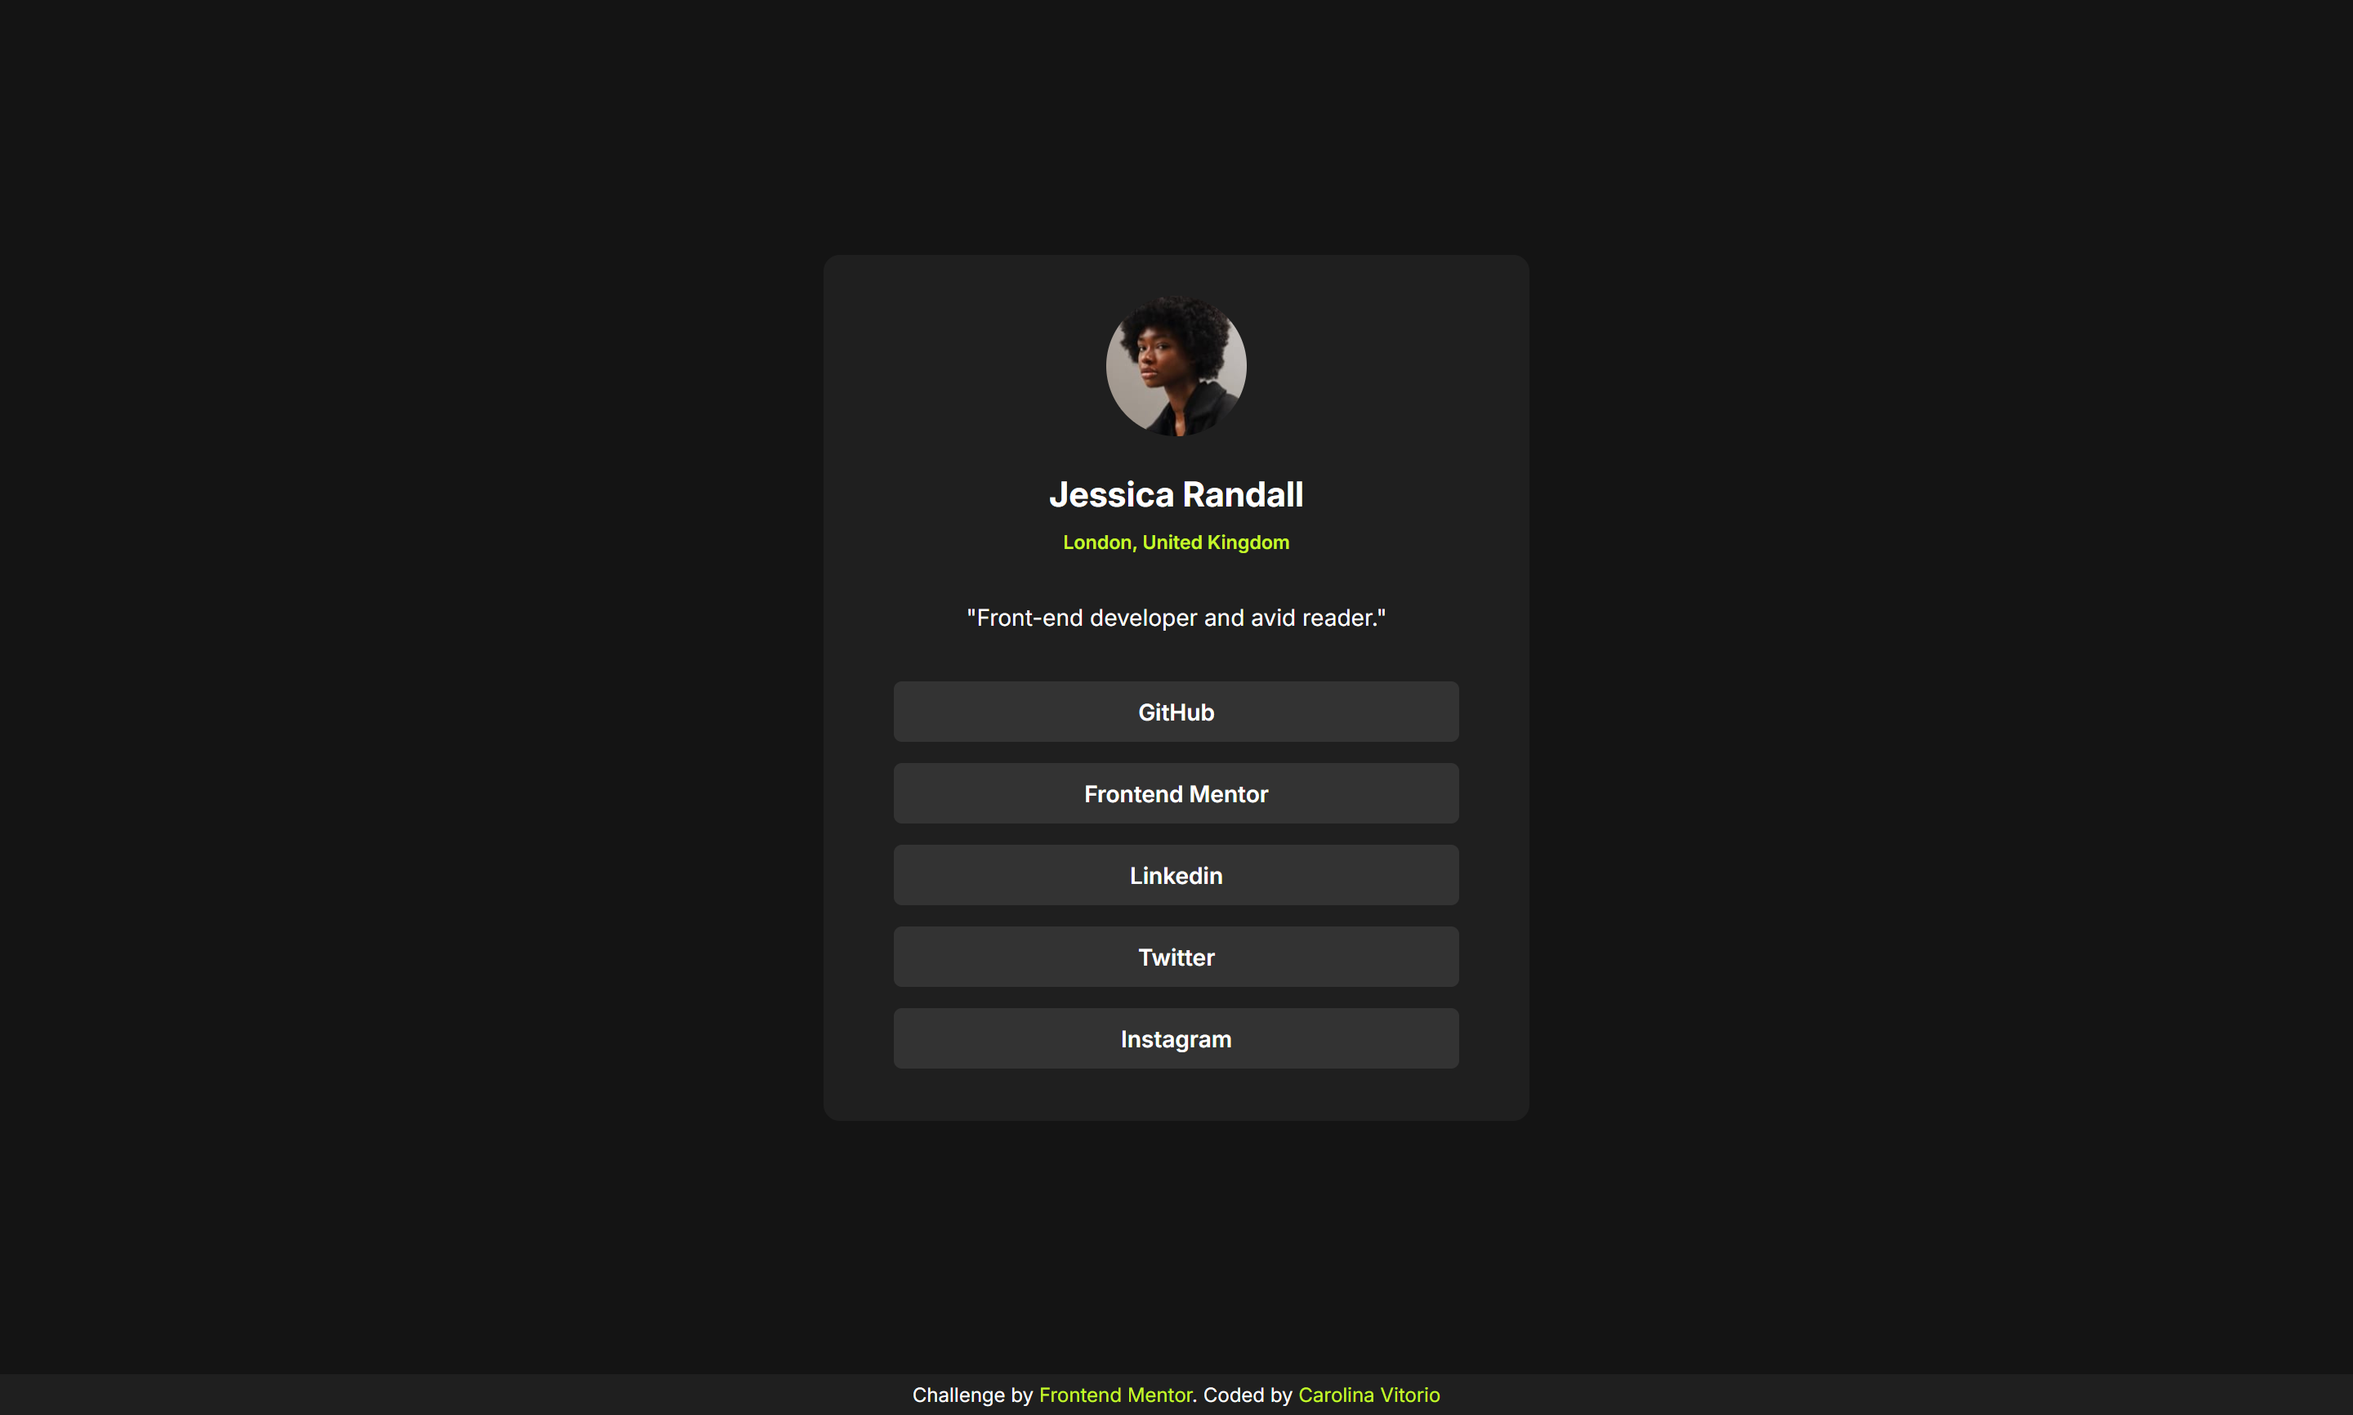
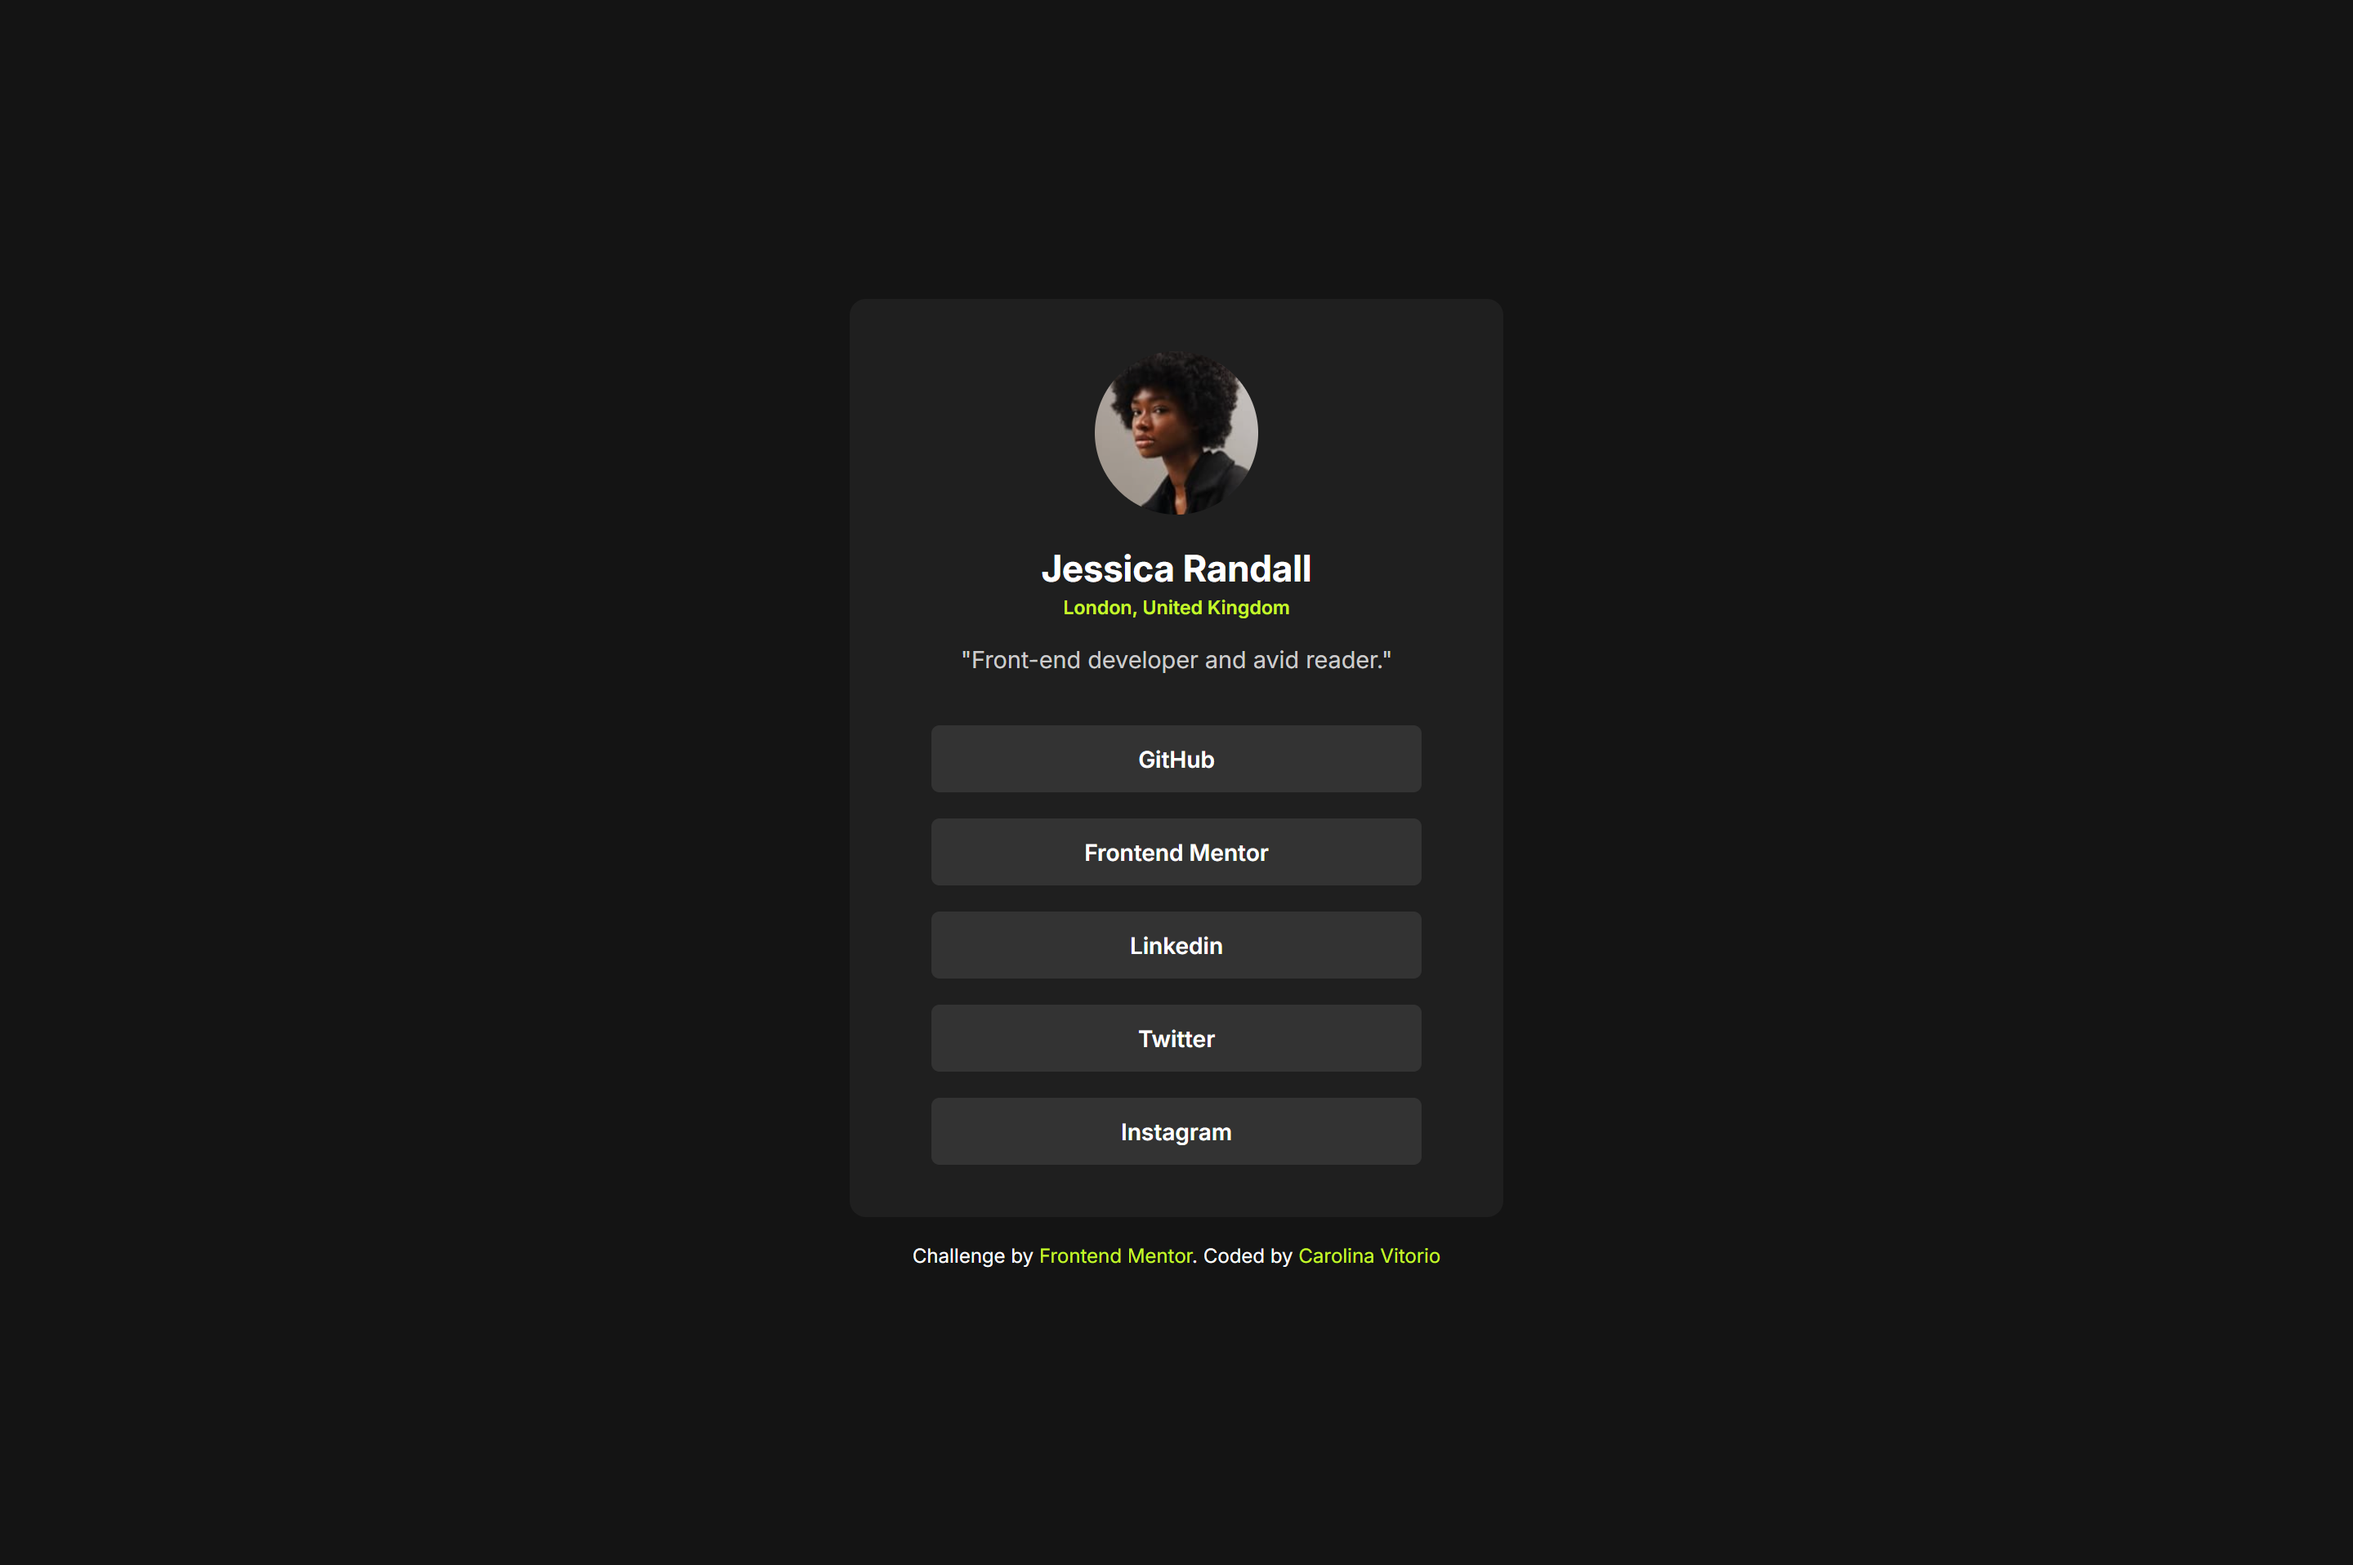
Ultima Atualização com correções na responsividade

diff --git a/assets/css/style.css b/assets/css/style.css
@@ -1,97 +1,88 @@
-* {
-    margin: 0;
-    padding: 0;
-    box-sizing: border-box;
-}
+    * {
+        margin: 0;
+        padding: 0;
+        box-sizing: border-box;
+    }
 
-body {
-    font-family: "Inter", sans-serif;
-    color: hsl(0, 0%, 100%);
-    font-size: 14px;
-    font-weight: 400;
-    display: flex;
-    flex-direction: column;
-    min-height: 100vh;
-}
+    body {
+        font-family: "Inter", sans-serif;
+        background-color: hsl(0, 0%, 8%);
+        color: hsl(0, 0%, 100%);
+        font-size: 14px;
+        min-height: 100vh;
+        display: flex;
+        justify-content: center;
+        align-items: center;
+        padding: 1.5rem;
+        flex-direction: column;
+    }
 
-.container {
-    background-color: hsl(0, 0%, 8%);
-    flex: 1;
-    display: flex;
-    justify-content: center;
-    align-items: center;
-}
+    .content {
+        background-color: hsl(0, 0%, 12%);
+        border-radius: 10px;
+        padding: 2rem 1.5rem;
+        width: 100%;
+        max-width: 400px;
+        text-align: center;
+    }
 
-.content {
-    background-color: hsl(0, 0%, 12%);
-    width: 35%;
-    height: 530px;
-    border-radius: 10px;
-}
+    .pessoa img {
+        width: 100px;
+        border-radius: 50%;
+        margin-bottom: 1rem;
+    }
 
-.pessoa {
-    text-align: center;
-    margin-top: 25px;
-    height: 230px;
-}
+    .pessoa h1 {
+        font-weight: 700;
+        font-size: 1.4rem;
+        margin-bottom: 0.25rem;
+    }
 
-img{
-    border-radius: 100px;
-    width: 20%;
-}
+    .pessoa h5 {
+        color: hsl(75, 94%, 57%);
+        font-weight: 600;
+        margin-bottom: 1rem;
+    }
 
-.pessoa h1 {
-    color: hsl(0, 0%, 100%);
-    font-weight: 700;
-    margin-top: 20px;
-}
+    .pessoa p {
+        color: #ccc;
+        font-size: 0.9rem;
+        margin-bottom: 2rem;
+    }
 
-.pessoa h5{
-    color: hsl(75, 94%, 57%);
-    padding-top: 10px;
-    font-weight: 600;
-}
+    .paginas {
+        display: flex;
+        flex-direction: column;
+        gap: 1rem;
+        align-items: center;
+    }
 
-.pessoa p{
-    margin-top: 30px;
-}
+    .botao {
+        text-decoration: none;
+        border-radius: 5px;
+        width: 100%;
+        max-width: 300px;
+        padding: 0.75rem;
+        background-color: hsl(0, 0%, 20%);
+        color: hsl(0, 0%, 100%);
+        cursor: pointer;
+        font-weight: 600;
+        transition: background-color 0.3s ease, color 0.3s ease;
+    }
 
-.paginas {
-    text-align: center;
-    display: grid;
-    height: 250px;
-    margin-bottom: 20px;
-}
+    .botao:hover {
+        background-color: hsl(75, 94%, 57%);
+        color: hsl(0, 0%, 8%);
+    }
 
-.botao {
-    text-decoration: none;
-    border-radius: 5px;
-    width: 80%;
-    margin:auto;
-    padding: 10px;
-    background-color: hsl(0, 0%, 20%);
-    color: hsl(0, 0%, 100%);
-    cursor: pointer;
-    border: none;
-    font-weight: 600;
-    transition: background-color 0.3s ease, color 0.3s ease;
-}
+    footer {
+        margin-top: 1rem;
+        text-align: center;
+        font-size: 12px;
+        color: hsl(0, 0%, 100%);
+    }
 
-.botao:hover{
-    background-color:hsl(75, 94%, 57%) ;
-    color:hsl(0, 0%, 8%) ;
-}
-
-footer {
-    width: 100%;
-    background-color:  hsl(0, 0%, 12%);
-    padding: 5px;
-    text-align: center;
-    font-size: 12px;
-    color: hsl(0, 0%, 100%);
-}
-
-footer a {
-    text-decoration: none;
-    color: hsl(75, 94%, 57%);
-}
+    footer a {
+        text-decoration: none;
+        color: hsl(75, 94%, 57%);
+    }

diff --git a/index.html b/index.html
@@ -20,26 +20,25 @@
 </head>
 
 <body>
-  <div class="container">
-    <div class="content">
+  <div class="content">
 
-      <section class="pessoa">
-        <img src="./assets/images/avatar-jessica.jpeg" alt="Jessica">
-        <h1>Jessica Randall</h1>
-        <h5>London, United Kingdom</h5>
-        <p>"Front-end developer and avid reader."</p>
-      </section>
+    <section class="pessoa">
+      <img src="./assets/images/avatar-jessica.jpeg" alt="Jessica">
+      <h1>Jessica Randall</h1>
+      <h5>London, United Kingdom</h5>
+      <p>"Front-end developer and avid reader."</p>
+    </section>
 
-      <section class="paginas">
-        <a href="https://github.com/" class="botao">GitHub</a>
-        <a href="https://frontendmentor.io" class="botao">Frontend Mentor</a>
-        <a href="https://linkedin.com" class="botao">Linkedin</a>
-        <a href="https://x.com" class="botao">Twitter</a>
-        <a href="https://instagram.com" class="botao">Instagram</a>
-      </section>
+    <section class="paginas">
+      <a href="https://github.com/" class="botao">GitHub</a>
+      <a href="https://frontendmentor.io" class="botao">Frontend Mentor</a>
+      <a href="https://linkedin.com" class="botao">Linkedin</a>
+      <a href="https://x.com" class="botao">Twitter</a>
+      <a href="https://instagram.com" class="botao">Instagram</a>
+    </section>
 
-    </div>
   </div>
+
   <footer class="attribution">
     Challenge by <a href="https://www.frontendmentor.io?ref=challenge" target="_blank">Frontend Mentor</a>.
     Coded by <a href="https://https://github.com/carolinavitorio">Carolina Vitorio</a>
